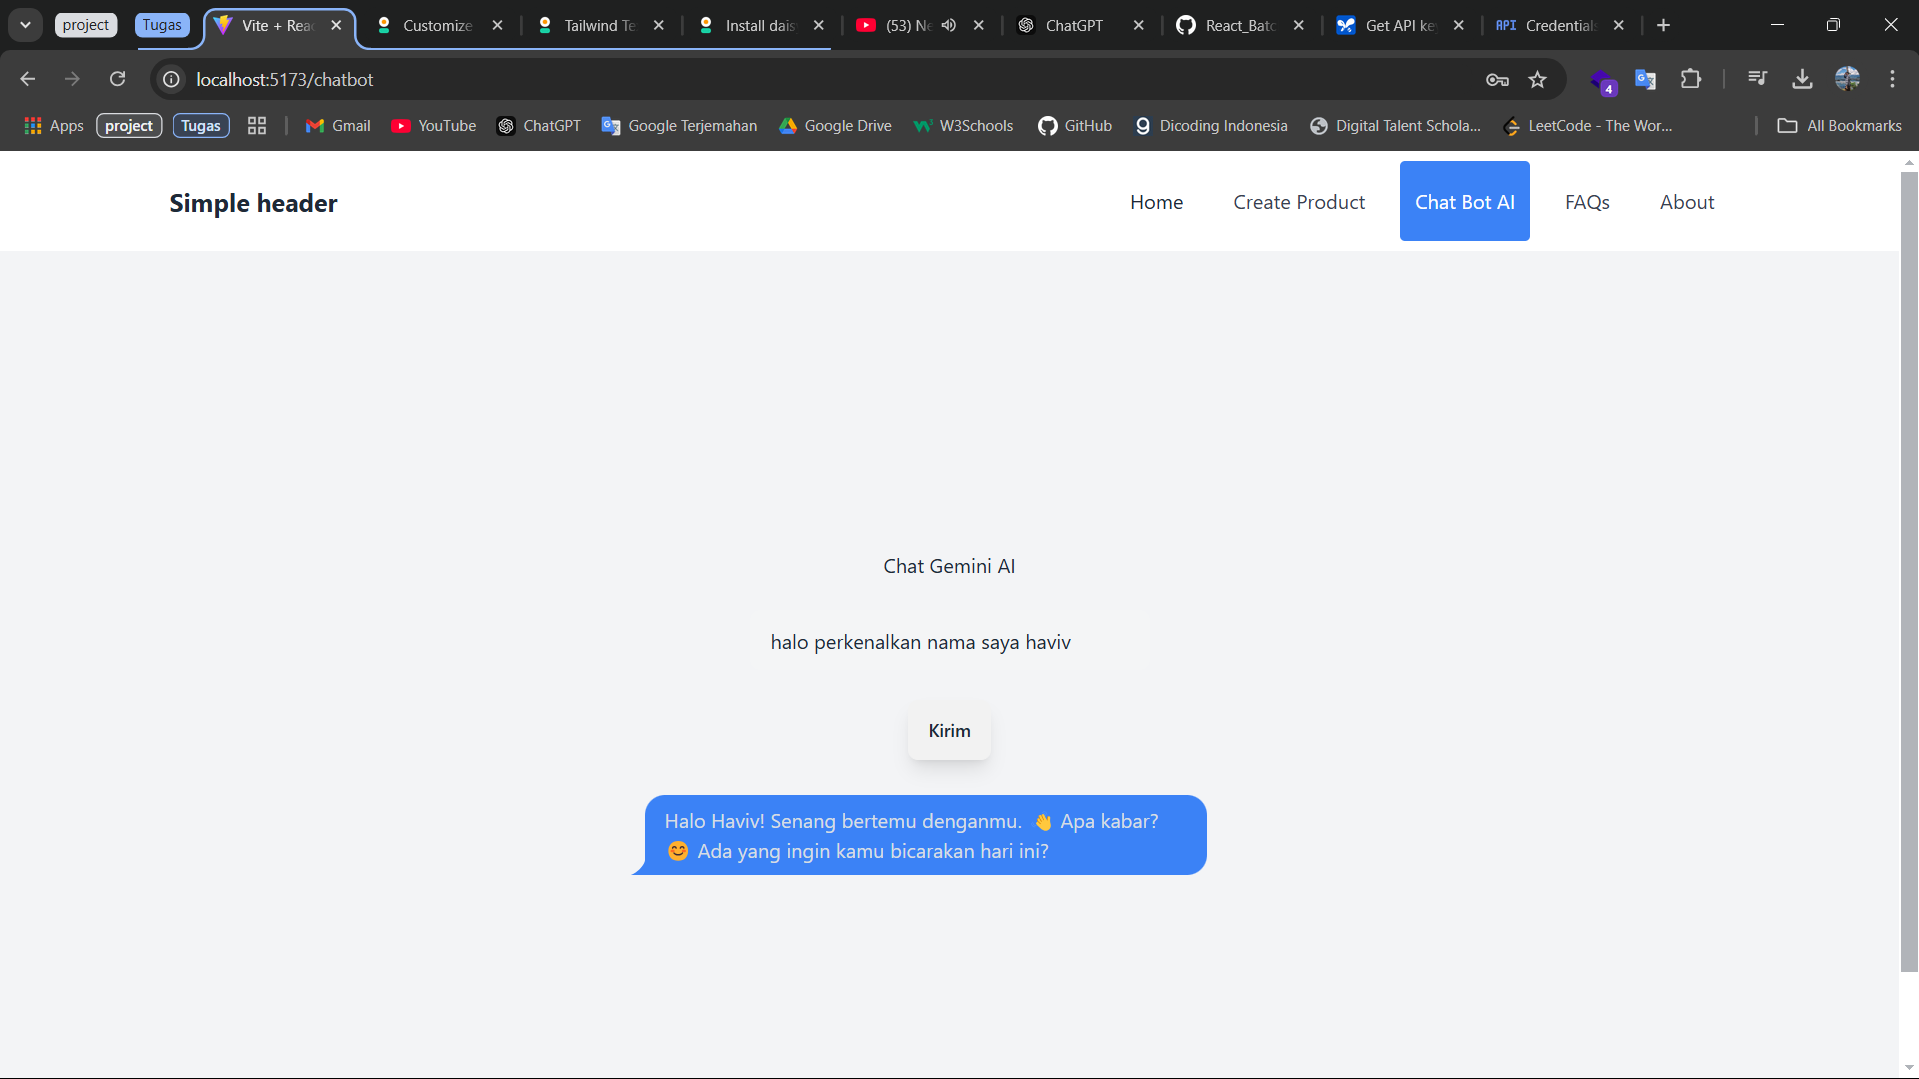
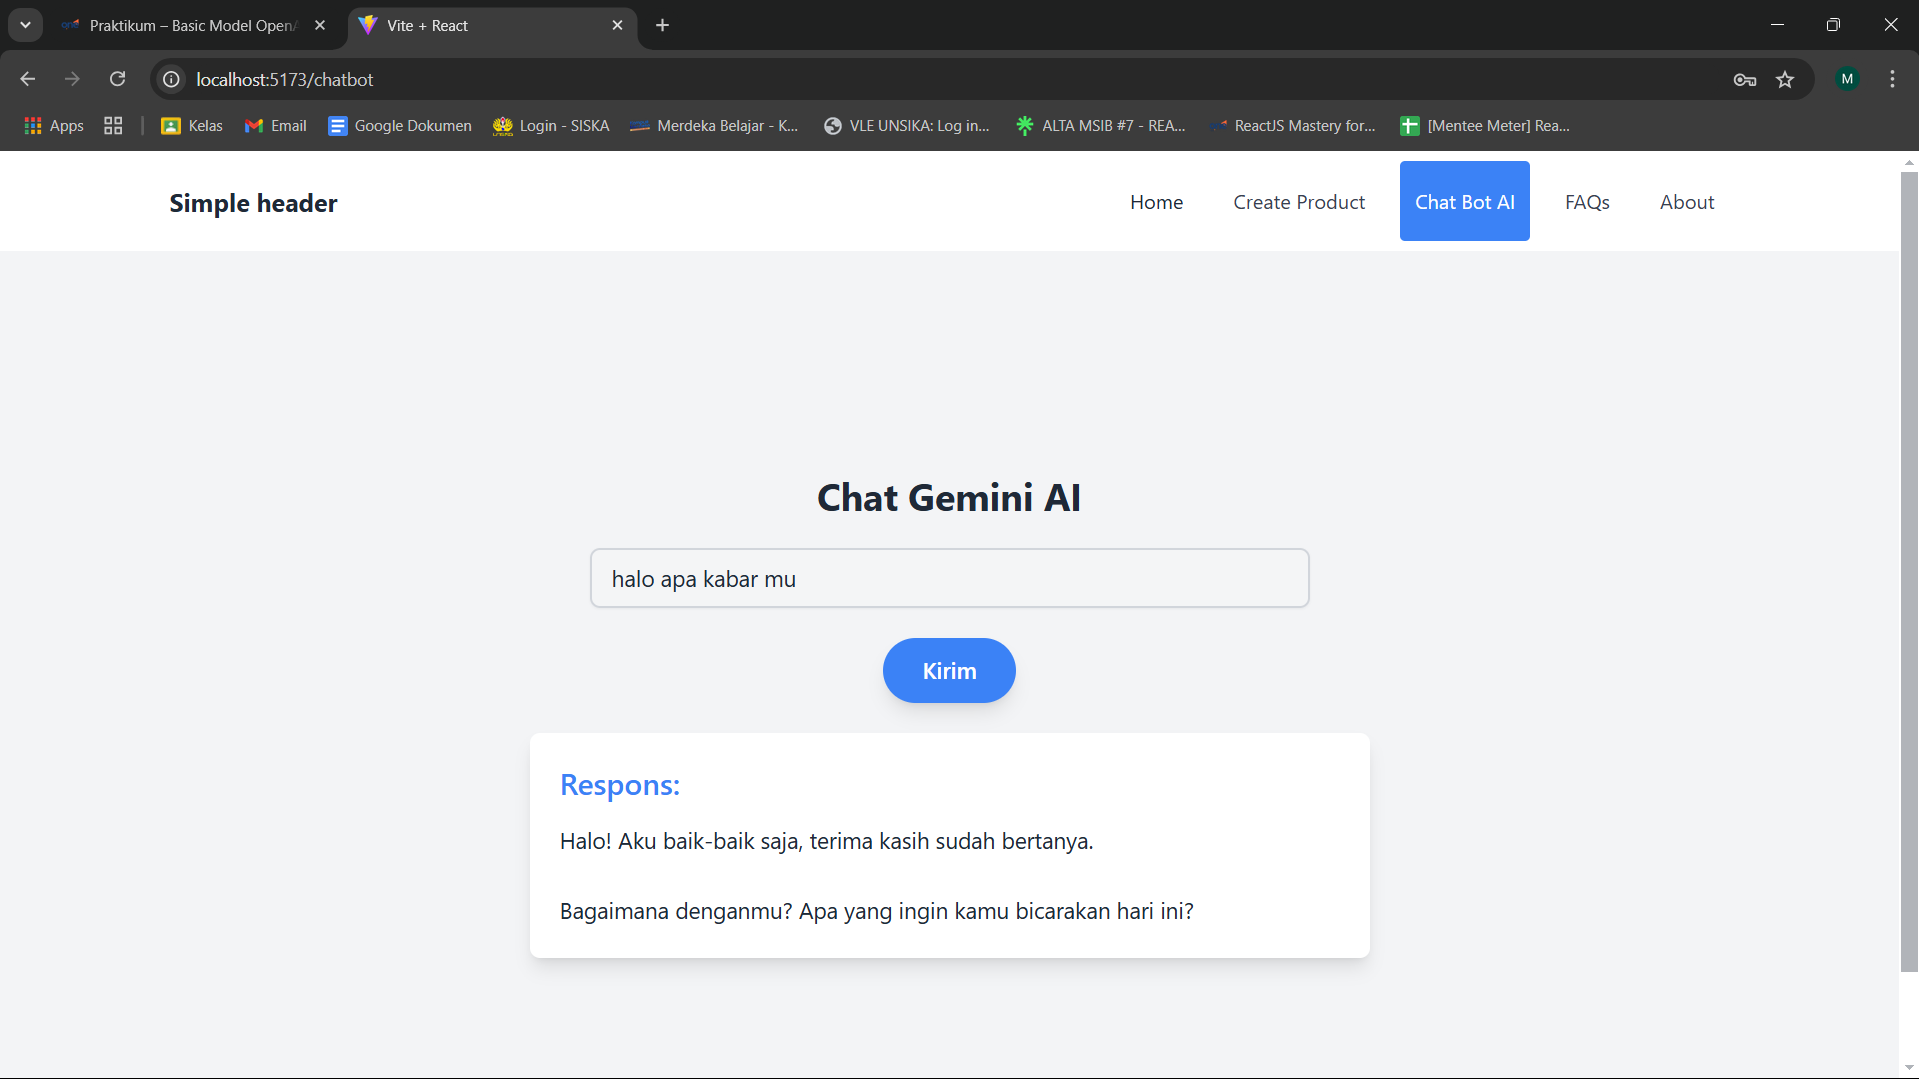
pengumpulan tugas praktikum 21

diff --git a/21_Perkenalan AI, OpenAI, dan Instalasi Open.ai di React/Praktikum/src/components/ChatBot.jsx b/21_Perkenalan AI, OpenAI, dan Instalasi Open.ai di React/Praktikum/src/components/ChatBot.jsx
@@ -92,26 +92,28 @@ function App() {
           </div>
         </div>
       </nav>
-      <div className="flex flex-col items-center justify-center min-h-screen bg-gray-100 p-4">
-        <h1 className="mb-6">Chat Gemini AI</h1>
+      <div className="flex flex-col items-center justify-center min-h-screen bg-gray-100 p-6">
+        <h1 className="text-3xl font-bold mb-6 text-gray-800">Chat Gemini AI</h1>
+        
+        {/* Input field yang lebih besar dan menarik */}
         <input
           type="text"
-          placeholder="Type here"
-          className="input input-ghost w-full max-w-xs"
+          placeholder="Masukkan pertanyaan Anda di sini..."
+          className="input input-ghost w-full max-w-xl p-4 text-lg border-2 border-gray-300 rounded-lg shadow-sm focus:outline-none focus:border-blue-400"
           value={inputUser}
           onChange={handleChange} 
         />
+        
         <button
           onClick={handlePromptSubmit}
-          className="btn mt-6 mb-6 shadow-lg"
+          className="mt-6 mb-6 px-8 py-3 bg-blue-500 text-white text-lg font-semibold rounded-full shadow-lg hover:bg-blue-600 transition duration-300"
         >
           Kirim
         </button>
-        {/* Tampilkan response dari AI */}
-        <div className="w-full max-w-lg space-y-4">
-          <div className="chat chat-start">
-            <div className="chat-bubble bg-blue-500">{response}</div>
-          </div>
+        
+        <div className="w-full max-w-2xl p-6 bg-white rounded-lg shadow-lg text-gray-800 text-lg">
+          <h2 className="text-2xl font-semibold mb-4 text-blue-500">Respons:</h2>
+          <p className="whitespace-pre-line">{response}</p>
         </div>
       </div>
     </>
